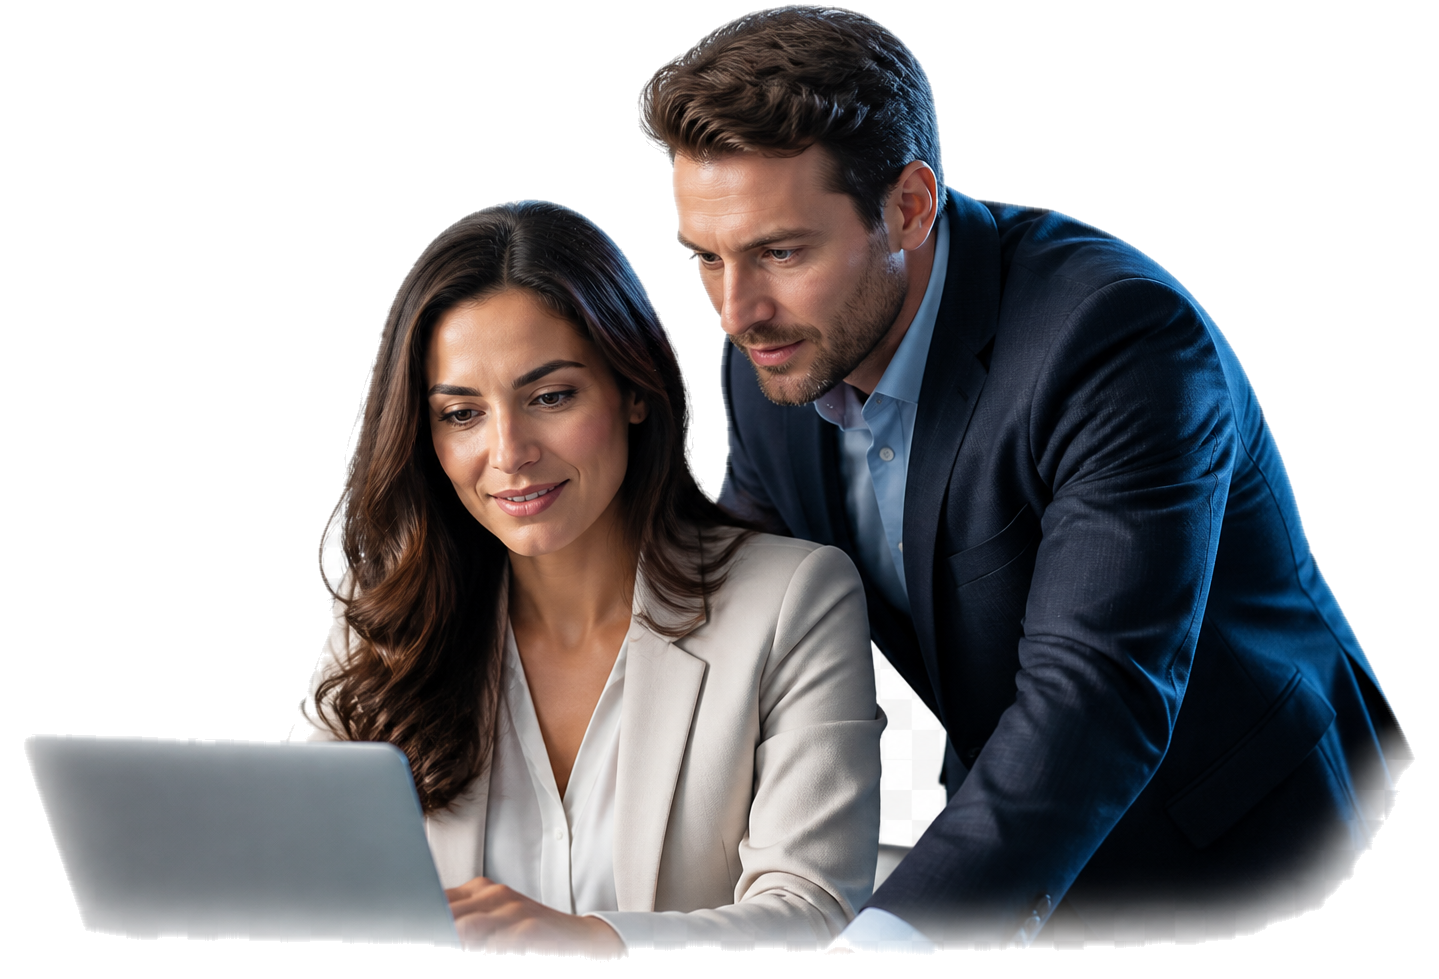
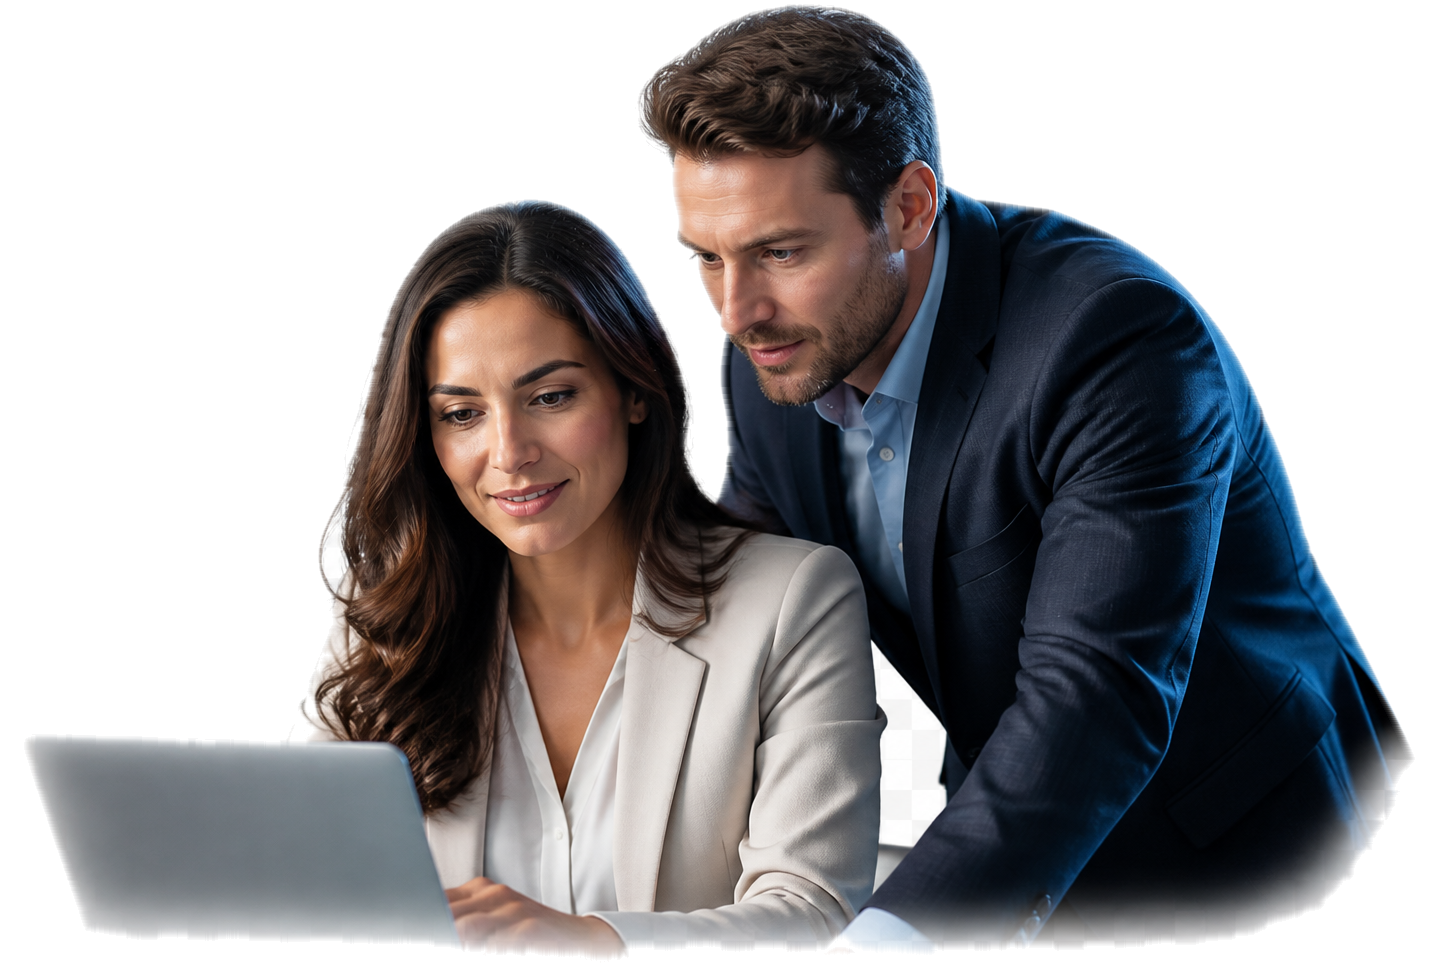
Further soften social selling cutout
Keeps the existing third sales image but applies stronger alpha feathering and cache-busts that asset only.

diff --git a/index.html b/index.html
@@ -208,7 +208,7 @@
                         </div>
                         <div class="sales-screenshot-stack">
                             <div class="sales-cutout-layer sales-cutout-layer--social" aria-hidden="true">
-                                <img src="assets/linkedin-social-posting-cutout.png?v=photo-feather-1" alt="" width="1439" height="979" loading="lazy">
+                                <img src="assets/linkedin-social-posting-cutout.png?v=photo-feather-2" alt="" width="1439" height="979" loading="lazy">
                             </div>
                             <div class="screenshot-frame">
                                 <img src="assets/feature-social.png" alt="Constellation Social Hub with AI LinkedIn post generation" width="1600" height="900">
